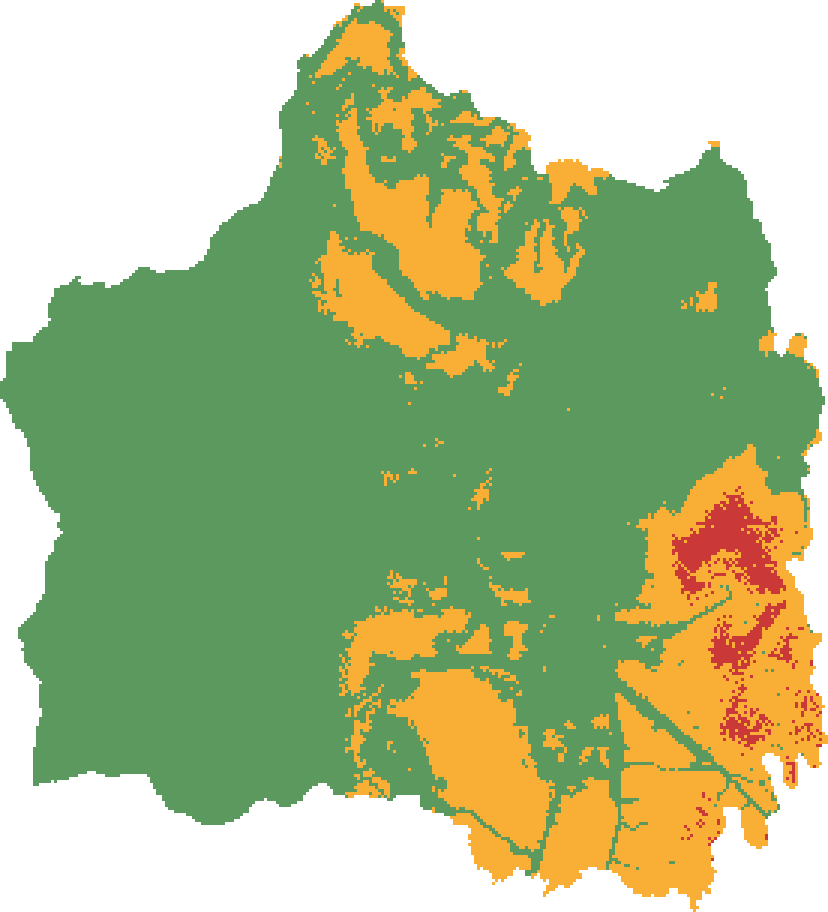
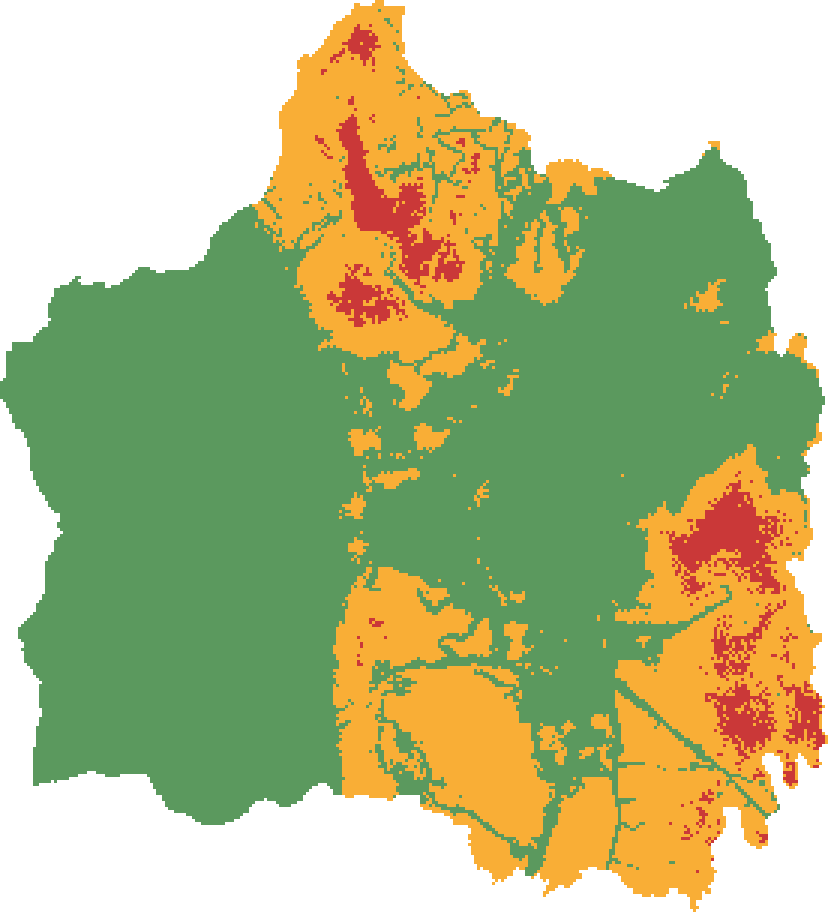
Hora Colombia en portal, Estación 11 de bomberos, histórico de mapas PNG (7 días)

diff --git a/web/index.html b/web/index.html
@@ -103,7 +103,7 @@ const fmt = n => n.toLocaleString('es-CO');
 
 fetch('data/alerta_meta.json').then(r => r.json()).then(meta => {
   document.getElementById('fecha-chip').textContent =
-    `Actualizado: ${meta.fecha} (${meta.generado})`;
+    `Actualizado: ${meta.generado} (hora Colombia)`;
 
   const c = meta.celdas, tot = c.total;
   const pct = k => (100 * c[k] / tot);
@@ -119,7 +119,7 @@ fetch('data/alerta_meta.json').then(r => r.json()).then(meta => {
   const est = meta.estaciones || {};
   const lluviaObs = (est.lluvia_observada_mm != null)
     ? `<br>📡 Lluvia <u>observada</u> estaciones: <b>${est.lluvia_observada_mm} mm</b>` +
-      `<span style="color:#5b6875"> (desde ${est.ventana || ''})</span>`
+      `<span style="color:#5b6875"> (desde ${est.ventana || ''} hora Colombia)</span>`
     : '';
   const tarde = (w.viento_tarde != null)
     ? `<br>🌬️ <b>Tarde (12-18 h):</b> viento hasta <b>${w.viento_tarde} km/h</b>` +
@@ -194,7 +194,7 @@ fetch('data/alerta_meta.json').then(r => r.json()).then(meta => {
             if (p.humedad_min != null) filas.push(`💧 Humedad mín: <b>${p.humedad_min} %</b>`);
             return L.circleMarker(latlng, {
               radius: 8, color: '#01579b', fillColor: '#0277bd', fillOpacity: .95, weight: 2
-            }).bindPopup(`<h3>📡 ${p.nombre}</h3>Red IDEAM · ventana ${p.ventana_desde} → ${p.ultima_obs}<br>` +
+            }).bindPopup(`<h3>📡 ${p.nombre}</h3>Red IDEAM · ventana ${p.ventana_desde} → ${p.ultima_obs} (hora Colombia)<br>` +
                          filas.join('<br>'));
           }
         }).addTo(map);

diff --git a/scripts/07_bomberos.py b/scripts/07_bomberos.py
@@ -1,0 +1,85 @@
+# -*- coding: utf-8 -*-
+"""Genera web/data/bomberos.geojson: estaciones de bomberos de OpenStreetMap
+(bbox Cali + vecinos) más las adiciones manuales que OSM no tiene."""
+import json
+import os
+import sys
+import time
+import urllib.parse
+import urllib.request
+
+sys.path.insert(0, os.path.dirname(__file__))
+import paths
+
+# estaciones que faltan en OSM (nombre, lat, lon, operador)
+MANUALES = [
+    ("Bomberos Cali - Estación 11", 3.379875, -76.544324,
+     "Benemérito Cuerpo de Bomberos Voluntarios de Cali"),
+]
+
+QUERY = """
+[out:json][timeout:60];
+(
+  node["amenity"="fire_station"](3.20,-76.80,3.62,-76.40);
+  way["amenity"="fire_station"](3.20,-76.80,3.62,-76.40);
+);
+out center tags;
+"""
+
+
+SERVIDORES = ["https://overpass-api.de/api/interpreter",
+              "https://overpass.kumi.systems/api/interpreter"]
+
+
+def consultar():
+    ultimo = None
+    for _ in range(2):
+        for url in SERVIDORES:
+            req = urllib.request.Request(
+                url, data=urllib.parse.urlencode({"data": QUERY}).encode(),
+                headers={"User-Agent":
+                         "SAT-Incendios-Cali/1.0 (proyecto academico)"})
+            try:
+                return json.loads(urllib.request.urlopen(req, timeout=120).read())
+            except Exception as e:
+                ultimo = e
+                print(f"  aviso {url}: {e}")
+                time.sleep(10)
+    raise RuntimeError(f"Overpass no disponible: {ultimo}")
+
+
+def main():
+    d = consultar()
+
+    feats = []
+    for el in d["elements"]:
+        lat = el.get("lat") or el.get("center", {}).get("lat")
+        lon = el.get("lon") or el.get("center", {}).get("lon")
+        if lat is None:
+            continue
+        t = el.get("tags", {})
+        feats.append({
+            "type": "Feature",
+            "geometry": {"type": "Point",
+                         "coordinates": [round(lon, 6), round(lat, 6)]},
+            "properties": {
+                "nombre": t.get("name", "Estación de Bomberos"),
+                "operador": t.get("operator", ""),
+                "direccion": " ".join(filter(None, [t.get("addr:street", ""),
+                                                    t.get("addr:housenumber", "")]))}})
+
+    for nombre, lat, lon, oper in MANUALES:
+        feats.append({
+            "type": "Feature",
+            "geometry": {"type": "Point", "coordinates": [lon, lat]},
+            "properties": {"nombre": nombre, "operador": oper, "direccion": ""}})
+
+    fp = os.path.join(paths.WEB, "data", "bomberos.geojson")
+    with open(fp, "w", encoding="utf-8") as f:
+        json.dump({"type": "FeatureCollection", "features": feats}, f,
+                  ensure_ascii=False)
+    print(f"OK: {len(feats)} estaciones de bomberos -> {fp}")
+
+
+if __name__ == "__main__":
+    main()

diff --git a/scripts/05_predict_daily.py b/scripts/05_predict_daily.py
@@ -216,6 +216,46 @@ def make_overlay(grid, res=100.0):
     return [[lat0, lon0], [lat1, lon1]]
 
 
+def archivar_overlay(generado):
+    """Guarda una copia del mapa de alerta en historico/ (retención: 7 días).
+
+    El nombre lleva la fecha-hora de Colombia (alerta_2026-07-09_1200.png).
+    Los archivos con más de 7 días se eliminan; el commit del workflow
+    persiste tanto las adiciones como los borrados en el repositorio."""
+    hist_dir = os.path.join(paths.PROJ, "historico")
+    os.makedirs(hist_dir, exist_ok=True)
+
+    stamp = generado.replace(" ", "_").replace(":", "")
+    src = Image.open(os.path.join(WEBDATA, "alerta_overlay.png")).convert("RGBA")
+    fondo = Image.new("RGBA", src.size, (255, 255, 255, 255))
+    fondo.alpha_composite(src)
+    img = fondo.convert("RGB")
+    try:
+        from PIL import ImageDraw
+        d = ImageDraw.Draw(img)
+        texto = f"SAT Incendios Cali - {generado} (hora Colombia)"
+        d.rectangle([0, 0, 8 + 7 * len(texto), 26], fill=(13, 59, 46))
+        d.text((6, 6), texto, fill=(255, 255, 255))
+    except Exception:
+        pass
+    img.save(os.path.join(hist_dir, f"alerta_{stamp}.png"))
+
+    limite = (dt.datetime.strptime(generado[:10], "%Y-%m-%d")
+              - dt.timedelta(days=7))
+    borrados = 0
+    for f in os.listdir(hist_dir):
+        if f.startswith("alerta_") and f.endswith(".png"):
+            try:
+                fd = dt.datetime.strptime(f[7:17], "%Y-%m-%d")
+            except ValueError:
+                continue
+            if fd < limite:
+                os.remove(os.path.join(hist_dir, f))
+                borrados += 1
+    print(f"histórico: guardado alerta_{stamp}.png "
+          f"({borrados} antiguos eliminados)")
+
+
 def resumen_corregimientos(grid):
     stats = (grid.dropna(subset=["zona"]).groupby(["zona", "nivel"]).size()
              .unstack(fill_value=0)
@@ -334,7 +374,11 @@ def main():
                              np.where(prob >= meta["umbral_media"], "MEDIA",
                                       "BAJA"))
 
+    tz_col = dt.timezone(dt.timedelta(hours=-5))  # Colombia: UTC-5 fijo
+    generado = dt.datetime.now(tz_col).strftime("%Y-%m-%d %H:%M")
+
     bounds = make_overlay(grid)
+    archivar_overlay(generado)
     stats = resumen_corregimientos(grid)
     if resumen:
         write_estaciones_geojson(resumen, cells)
@@ -346,7 +390,7 @@ def main():
                    if e.get("precip_mm") is not None] or [None])
     out_meta = {
         "fecha": fecha,
-        "generado": dt.datetime.now().strftime("%Y-%m-%d %H:%M"),
+        "generado": generado,
         "bounds": bounds,
         "celdas": {"total": int(len(grid)),
                    "ALTA": int(dist.get("ALTA", 0)),